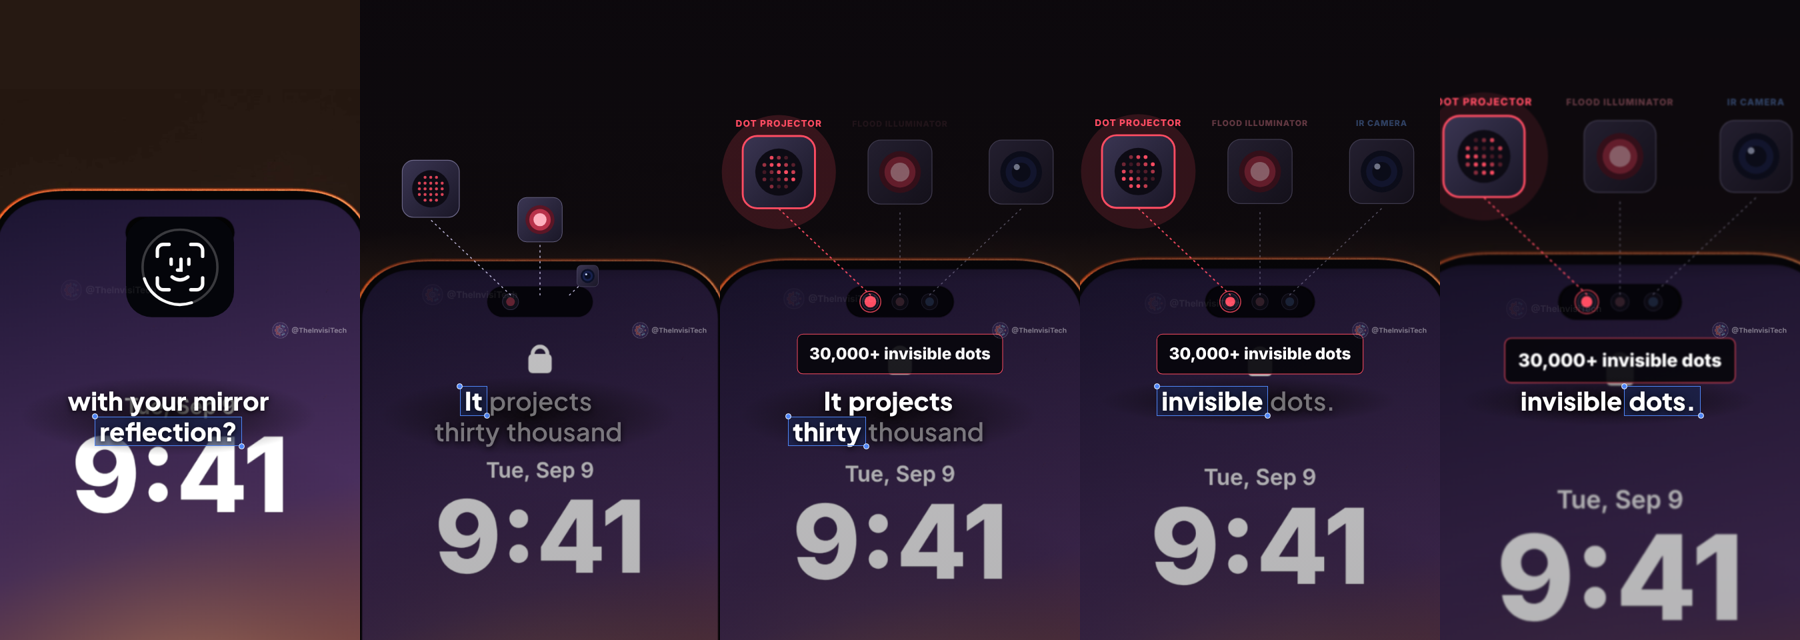
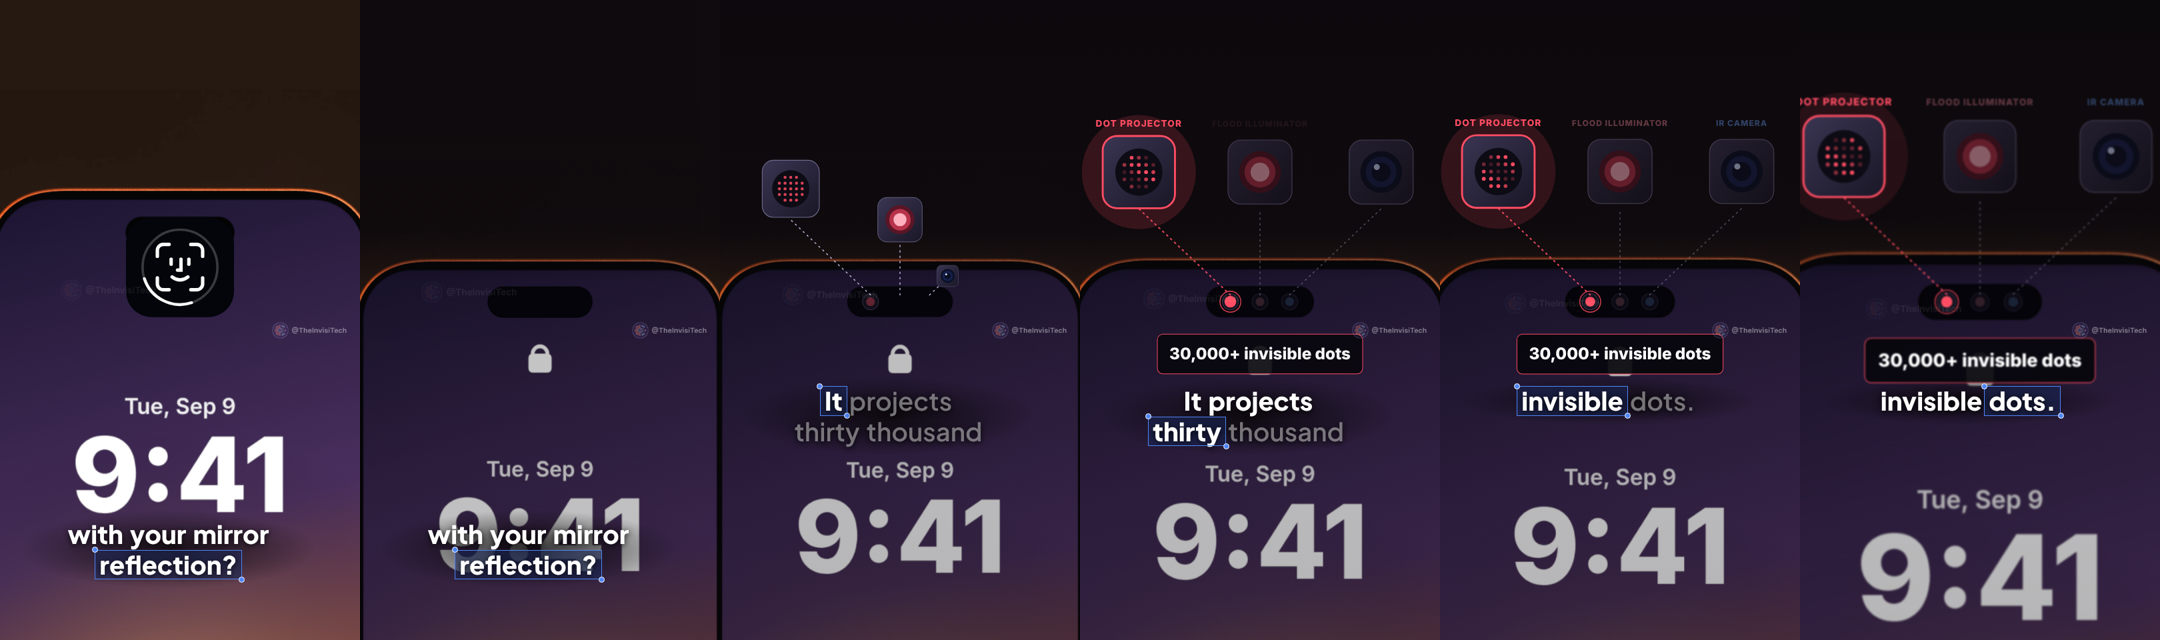
Hook caption stays under the clock until the line ends
Claude-Session: https://claude.ai/code/session_01GXcKc5WnFrVWBsHLe8YpAy

Changed region(s): [[0.0311, 0.125, 0.9956, 1.0], [0.7778, 0.375, 0.8711, 0.4375], [0.0, 0.2812, 0.0311, 0.3438]]

diff --git a/face-id/mirror-short/src/scenes/Scan.tsx b/face-id/mirror-short/src/scenes/Scan.tsx
@@ -14,7 +14,7 @@ import { HalfPhone, PhotoFlat } from './PhotoFlat';
 //                     71–103  the same dots as a cyan point cloud                 "The phone uses"
 //                    103–177  DEPTH MAP: the web forms and is scanned; both labels stay  "that pattern to map the shape of my face"
 export const FZ = 1.15;      // framing of the frontal face; the mirror view and the cyan point cloud are lined up with it
-export const CUE_A = { front: 69, cam: 36, end: 152 };   // front: the switch starts (what you see); cam: frames later, what the camera sees   // front: the switch starts (what you see); cam: frames later, what the camera sees   // front: the switch starts (what you see); cam: frames later, what the camera sees   // front: the switch starts (what you see); cam: frames later, what the camera sees   // front: the switch starts (what you see); cam: frames later, what the camera sees   // front: the switch starts (what you see); cam: frames later, what the camera sees   // front: the switch starts (what you see); cam: frames later, what the camera sees   // front: the switch starts (what you see); cam: frames later, what the camera sees   // front: the switch starts (what you see); cam: frames later, what the camera sees   // front: the switch starts (what you see); cam: frames later, what the camera sees   // front: the switch starts (what you see); cam: frames later, what the camera sees   // front: the switch starts (what you see); cam: frames later, what the camera sees   // front: the switch starts (what you see); cam: frames later, what the camera sees
+export const CUE_A = { front: 69, cam: 36, end: 152 };   // front: the switch starts (what you see); cam: frames later, what the camera sees   // front: the switch starts (what you see); cam: frames later, what the camera sees   // front: the switch starts (what you see); cam: frames later, what the camera sees   // front: the switch starts (what you see); cam: frames later, what the camera sees   // front: the switch starts (what you see); cam: frames later, what the camera sees   // front: the switch starts (what you see); cam: frames later, what the camera sees   // front: the switch starts (what you see); cam: frames later, what the camera sees   // front: the switch starts (what you see); cam: frames later, what the camera sees   // front: the switch starts (what you see); cam: frames later, what the camera sees   // front: the switch starts (what you see); cam: frames later, what the camera sees   // front: the switch starts (what you see); cam: frames later, what the camera sees   // front: the switch starts (what you see); cam: frames later, what the camera sees   // front: the switch starts (what you see); cam: frames later, what the camera sees   // front: the switch starts (what you see); cam: frames later, what the camera sees
 // ScanB now: 0–face a flat wall with the neat dot grid · face: the same grid on his face · bend: the grid bends with his
 // face (nose one way, cheeks the other), NOSE on "nose", CHEEKS on "cheeks" · cyan point cloud on "The phone" · depth map
 // face: -20 = the flat-wall shot is not shown; the scene opens on the 3D dotted head

diff --git a/face-id/mirror-short/src/script.ts b/face-id/mirror-short/src/script.ts
@@ -27,8 +27,8 @@ export const HOOK = { srcStart: 2.2, freeze: 11, cut: 64, handF: 22 };   // cut:
 export const CAPTION_TOP_DEFAULT = 230;
 export const CAPTION_PLACEMENT: { from: number; to: number; top: number }[] = [
   { from: 0.56, to: 2.56, top: 1300 },      // the rush into the reflected phone, then the phone: lower, over his hand
-  { from: 2.56, to: 3.26, top: 1560 },      // the push to the top of the phone: caption under the clock
-  { from: 3.26, to: 6.38, top: 1160 },      // the parts use the top -> caption between the island and the clock
+  { from: 2.56, to: 4.02, top: 1560 },      // the push to the top of the phone: caption under the clock
+  { from: 4.02, to: 6.38, top: 1160 },      // the parts use the top -> caption between the island and the clock
   { from: 6.38, to: 8.68, top: 185 },     // 3D red dots clip: raised to clear his hair and the dots
   { from: 12.35, to: 14.95, top: 1540 },      // top-down mirror diagram: the top holds the face behind the glass -> caption below his head
   { from: 16.52, to: 21.32, top: 170 },      // the 3D dotted head
